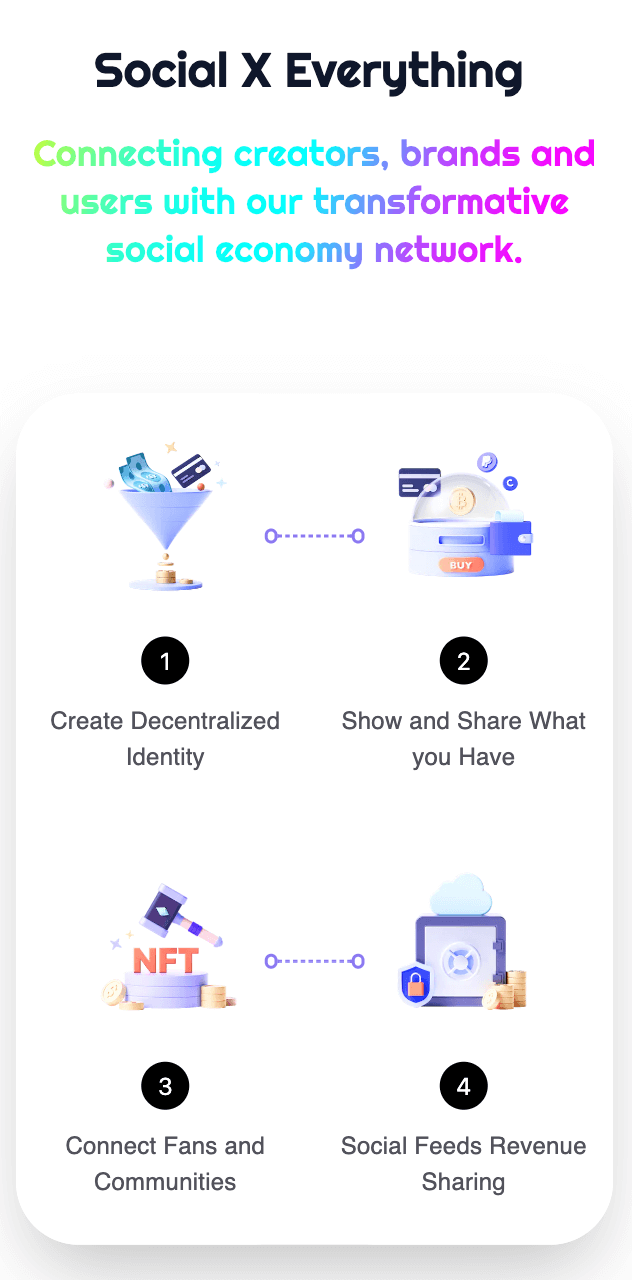
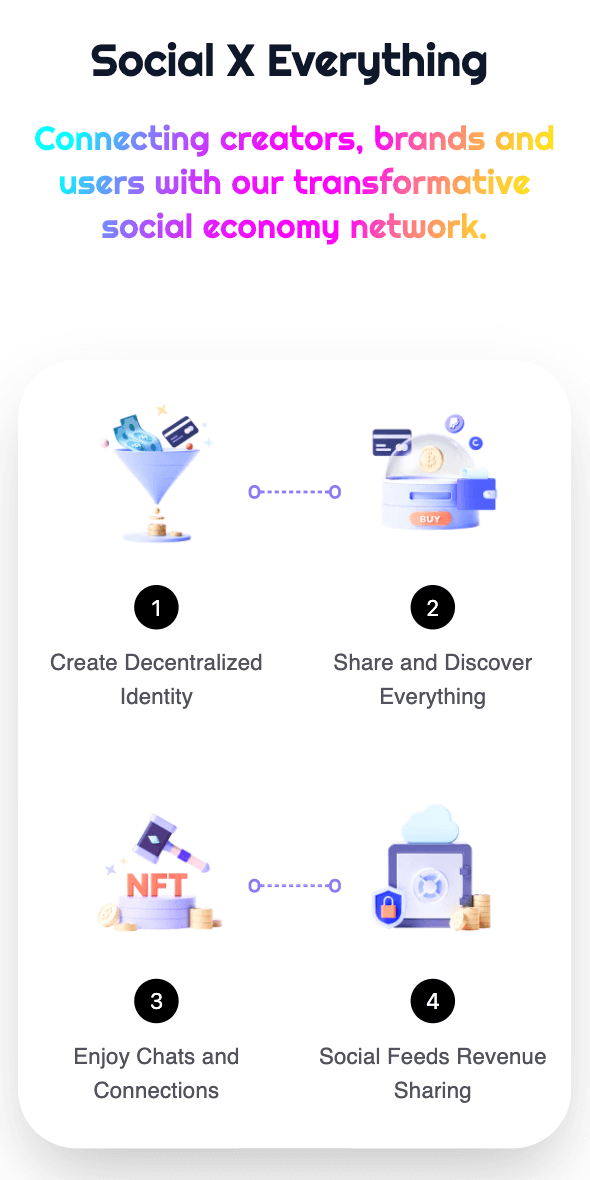
update design slogan

diff --git a/index.html b/index.html
@@ -90,6 +90,9 @@
               config: {
                 title: "Nextme",
               },
+              date: {
+                year: new Date().getFullYear(),
+              },
               cdn: "https://cdn.nextme.one",
               ecosystem: {
                 names: JSON.parse(localStorage.getItem("nextme_names")),

diff --git a/README.md b/README.md
@@ -8,9 +8,9 @@
 
 Focus 【Creator Economy】【Pay & Distribution of Benefits】【Social Data & Privacy】
 
-## Mission
+## Slogan
 
-> Social Economy Network Connecting Everything.
+> Discover Interesting People and Stories.
 
 <ul class="flex gap-5 sm:gap-8 !pl-0 pt-10">
   <li
@@ -31,11 +31,15 @@ Focus 【Creator Economy】【Pay & Distribution of Benefits】【Social Data & 
   </li>
 </ul>
 
-## Landing
+## Mission
 
-<p>We mainly serves creators (bloggers/designers/photographers, etc.) and brands (small and medium-sized enterprises/merchants/IP, etc.) It not only has a rich, beautiful and powerful social portal homepage/Landing Page/Link in Bio, etc. but also can The community square can freely share updates, works, courses, products, derivatives, etc.</p>
-<p>Not limited to communication/interaction/creation/transaction, etc. The data is also more securely and permanently stored on decentralized blockchain nodes, realizing one-stop branding Display and realization of influence and value.<p>
-<p>Social Feeds supports and aggregates 1,900+ third-party services (chat/meeting/e-commerce/transactions, etc.) and feeds back the data revenue brought by social relationship feeds, advertising services, commodity transactions, etc. to active users in the form of smart contract token sharing. Build a decentralized social relationship, content aggregation, and traffic distribution center.</p>
+<p>Nextme is a cross-chain and cross-platform decentralized social economy network.</p>
+
+<p>It is a public social network similar in design to Instagram and Twitter, but encrypted.</p>
+
+<p>Everyone own their accounts and relationships、data ownership and earnings rights, share and take anywhere.</p>
+
+<p>Creators, brands and fans, and communities can better share streams, discover interesting people, stories and meetups, and earn creative and interactive revenue in encrypted protocol.</p>
 
 !> Web2+3 Creator
 

diff --git a/Resources/design.md b/Resources/design.md
@@ -4,9 +4,9 @@
 
 <p>"Nextme" is one word and spelled with a capital N.</p>
 
-# Solgan
+# Slogan
 
-<strong>Social Economy Network Connecting Everything.</strong>
+<strong>Discover Interesting People and Stories.</strong>
 
 # Branding Guidelines
 
@@ -153,13 +153,13 @@
 </section>
 
 <footer class='pt-20 max-sm:pb-8 text-center safe-area-inset-bottom text-sm text-neutral-700'>
-  <label>Copyright 2023</label>
+  <label>Copyright 2022 - {{ date.year }} </label>
   <a 
     href='https://nextme.one'
     target="_blank"
     rel="noopener noreferrer nofollow"
     class='mx-0.5 bg-clip-text !text-transparent bg-gradient-to-r from-sky-500 to-fuchsia-500'
-  >Next Labs
+  >@Next Labs
   </a>
   <label className="-ml-0.5">All rights reserved.</label>
 </footer>

diff --git a/Resources/guidebook.md b/Resources/guidebook.md
@@ -22,13 +22,13 @@
 <footer
   class="pt-20 max-sm:pb-8 text-center safe-area-inset-bottom text-sm text-neutral-700"
 >
-  <label>Copyright 2023</label>
+  <label>Copyright 2022 - {{ date.year }} </label>
   <a
     href="https://nextme.one"
     target="_blank"
     rel="noopener noreferrer nofollow"
     class="mx-0.5 bg-clip-text !text-transparent bg-gradient-to-r from-sky-500 to-fuchsia-500"
-    >Next Labs
+    >@Next Labs
   </a>
   <label class="-ml-0.5">All rights reserved.</label>
 </footer>

diff --git a/_coverpage.md b/_coverpage.md
@@ -2,7 +2,7 @@
   <a href='//nextme.one'><img src="assets/images/logo/logo_pro.svg" /></a>
 </h2>
 
-<h3 class='text-3xl py-2'>Social Economy Network Connecting Everything</h3>
+<h3 class='text-3xl py-2'>Discover Interesting People and Stories</h3>
 <h4 class='pb-12'>Connecting creators, brands and users with our transformative social economy network.</h4>
 
 [Get Started](README.md)

diff --git a/_sidebar.md b/_sidebar.md
@@ -1,8 +1,8 @@
 - Brand
 
   - [Origin](README.md?id=Origin)
+  - [Slogan](README.md?id=Slogan)
   - [Mission](README.md?id=Mission)
-  - [Landing](README.md?id=Landing)
 
 - Ecosystem
 
